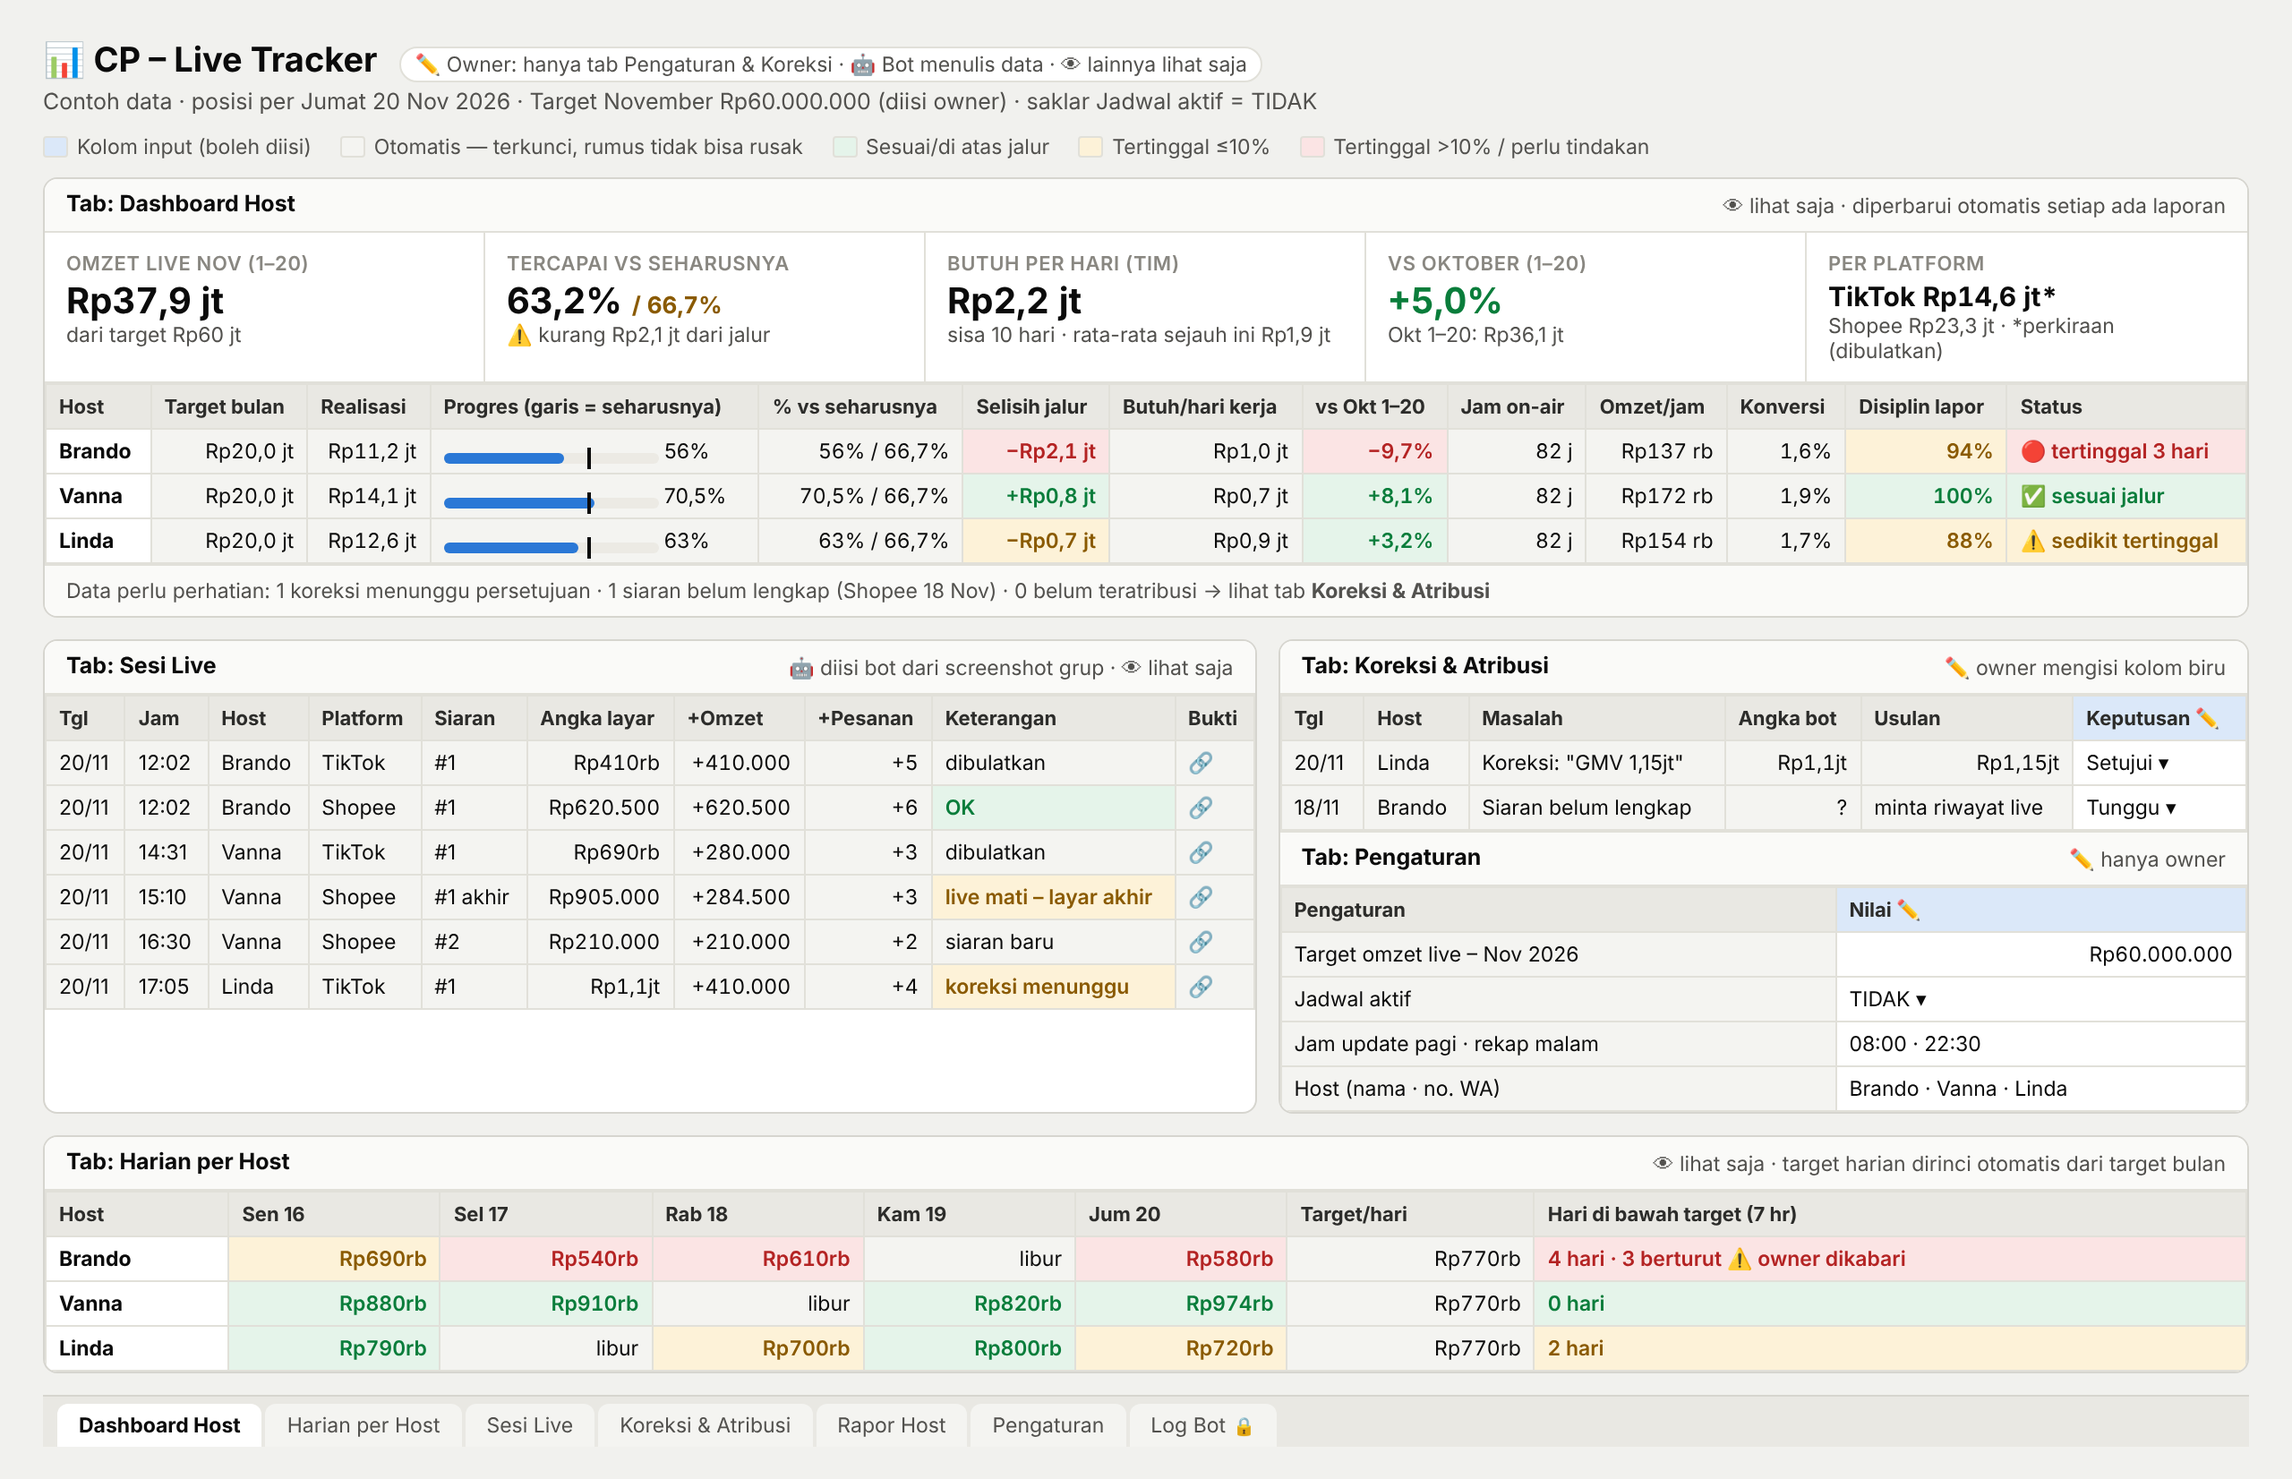
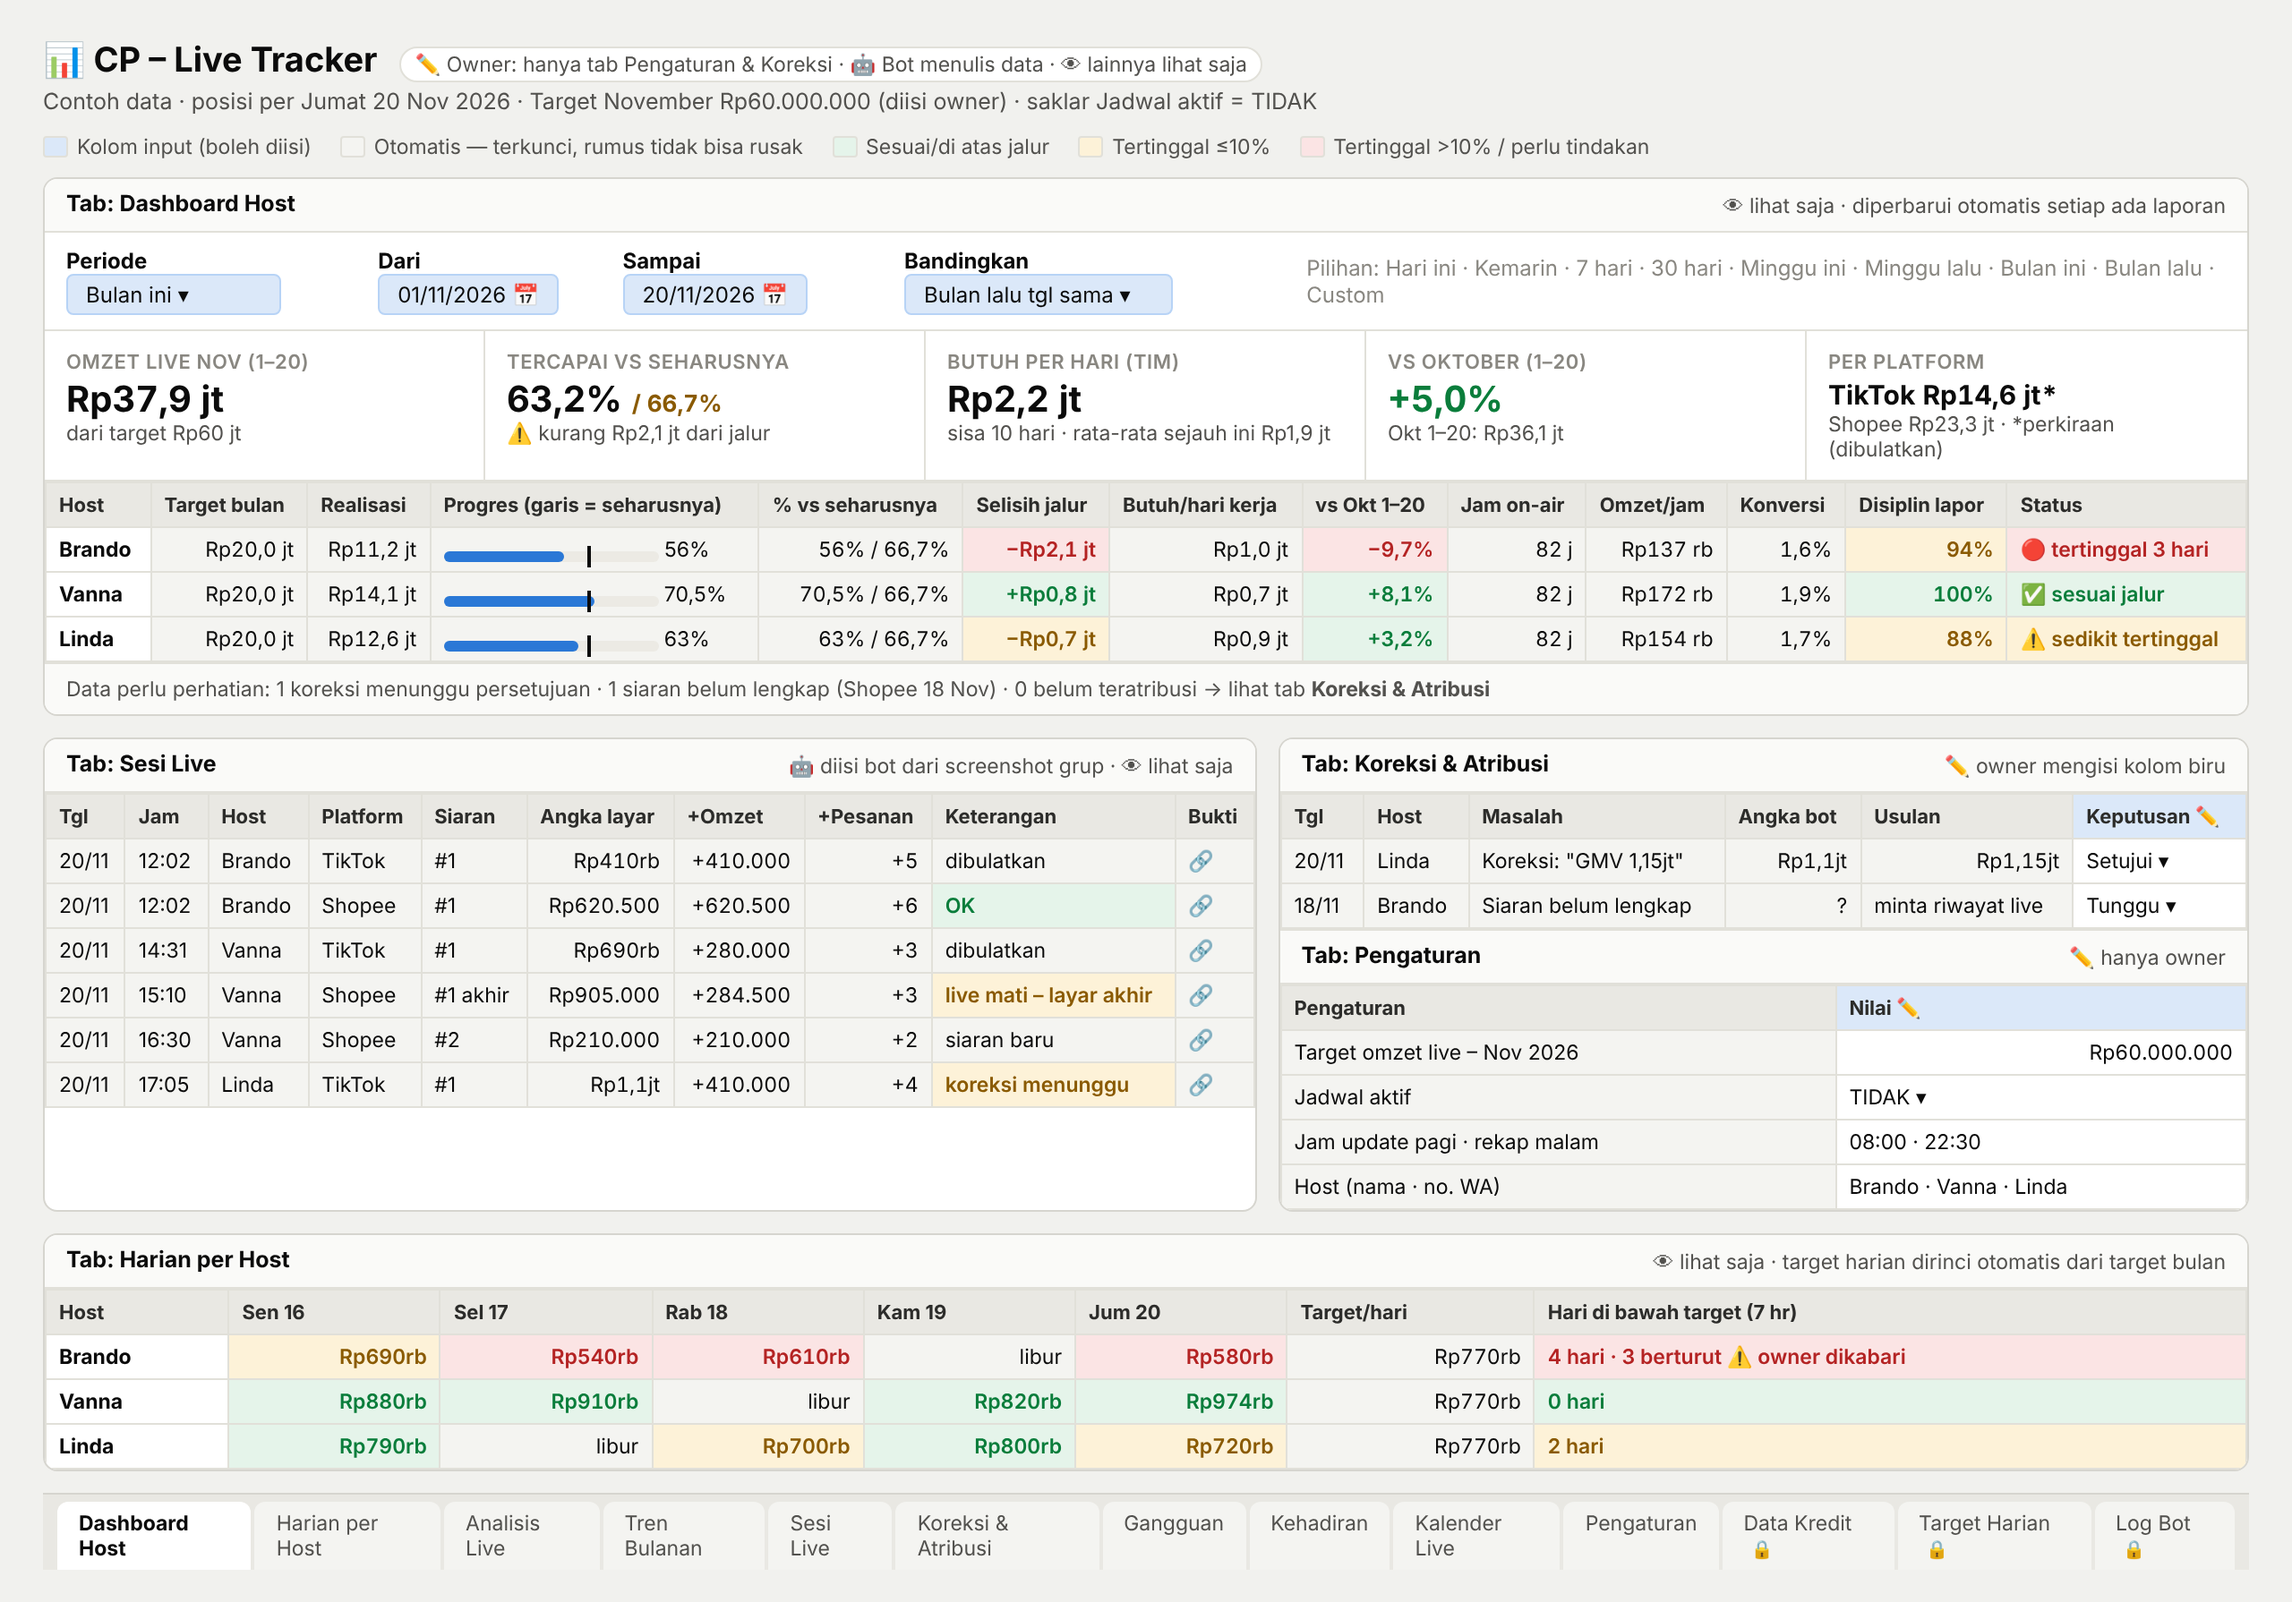
docs: mockup dashboard dengan filter periode
Claude-Session: https://claude.ai/code/session_01WetgRYa91mrVbnTBVdNUgQ

diff --git a/mockup-sheets.html b/mockup-sheets.html
@@ -51,6 +51,13 @@ th.in{background:#dbe8f9}
 
  <div class="sheet">
   <div class="tabname">Tab: Dashboard Host <span>👁 lihat saja · diperbarui otomatis setiap ada laporan</span></div>
+  <div style="display:flex;gap:18px;align-items:center;padding:8px 12px;border-bottom:1px solid var(--grid);font-size:12px;background:#fff">
+   <span><b>Periode</b> <span style="display:inline-block;background:#dbe8f9;border:1px solid #b7d3f6;border-radius:4px;padding:3px 10px;min-width:120px">Bulan ini ▾</span></span>
+   <span><b>Dari</b> <span style="display:inline-block;background:#dbe8f9;border:1px solid #b7d3f6;border-radius:4px;padding:3px 10px">01/11/2026 📅</span></span>
+   <span><b>Sampai</b> <span style="display:inline-block;background:#dbe8f9;border:1px solid #b7d3f6;border-radius:4px;padding:3px 10px">20/11/2026 📅</span></span>
+   <span><b>Bandingkan</b> <span style="display:inline-block;background:#dbe8f9;border:1px solid #b7d3f6;border-radius:4px;padding:3px 10px;min-width:150px">Bulan lalu tgl sama ▾</span></span>
+   <span style="color:var(--muted)">Pilihan: Hari ini · Kemarin · 7 hari · 30 hari · Minggu ini · Minggu lalu · Bulan ini · Bulan lalu · Custom</span>
+  </div>
   <div class="kpis">
    <div class="kpi"><div class="l">Omzet live Nov (1–20)</div><div class="v">Rp37,9 jt</div><div class="s">dari target Rp60 jt</div></div>
    <div class="kpi"><div class="l">Tercapai vs seharusnya</div><div class="v">63,2% <span style="font-size:13px;color:var(--warn)">/ 66,7%</span></div><div class="s">⚠ kurang Rp2,1 jt dari jalur</div></div>
@@ -107,7 +114,7 @@ th.in{background:#dbe8f9}
    <tr><td><b>Linda</b></td><td class="n ok">Rp790rb</td><td class="auto n">libur</td><td class="n warn">Rp700rb</td><td class="n ok">Rp800rb</td><td class="n warn">Rp720rb</td><td class="auto n">Rp770rb</td><td class="warn">2 hari</td></tr>
   </table>
  </div>
- <div class="tabs"><div class="a">Dashboard Host</div><div>Harian per Host</div><div>Sesi Live</div><div>Koreksi &amp; Atribusi</div><div>Rapor Host</div><div>Pengaturan</div><div>Log Bot<span class="lk">🔒</span></div></div>
+ <div class="tabs"><div class="a">Dashboard Host</div><div>Harian per Host</div><div>Analisis Live</div><div>Tren Bulanan</div><div>Sesi Live</div><div>Koreksi &amp; Atribusi</div><div>Gangguan</div><div>Kehadiran</div><div>Kalender Live</div><div>Pengaturan</div><div>Data Kredit<span class="lk">🔒</span></div><div>Target Harian<span class="lk">🔒</span></div><div>Log Bot<span class="lk">🔒</span></div></div>
 </div>
 
 <!-- ===================== CONTENT TRACKER ===================== -->
